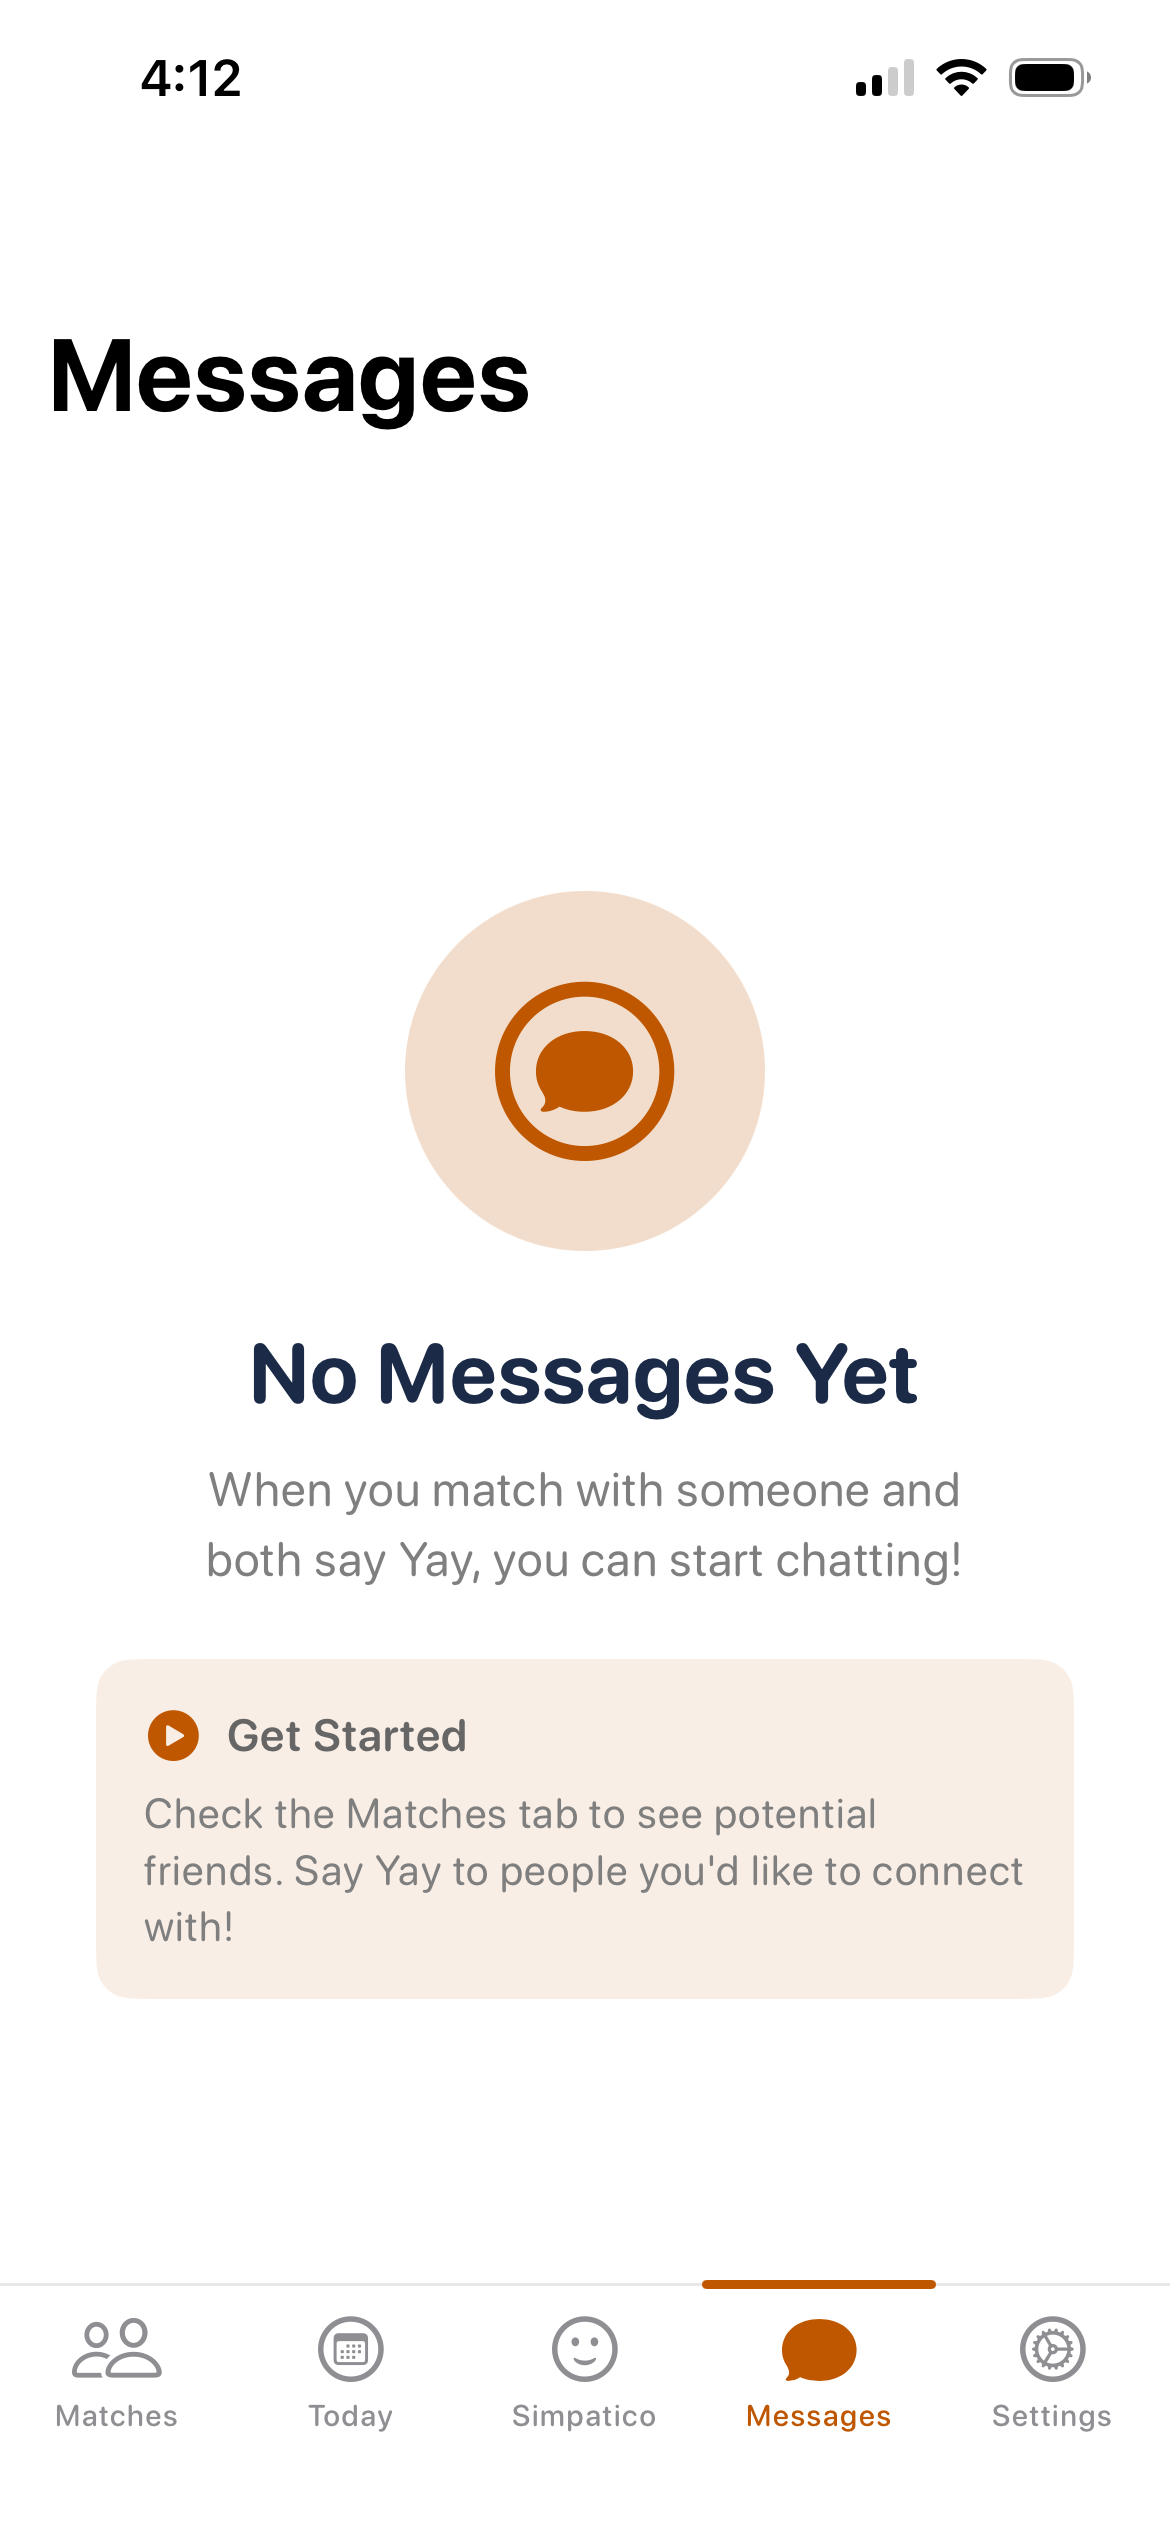
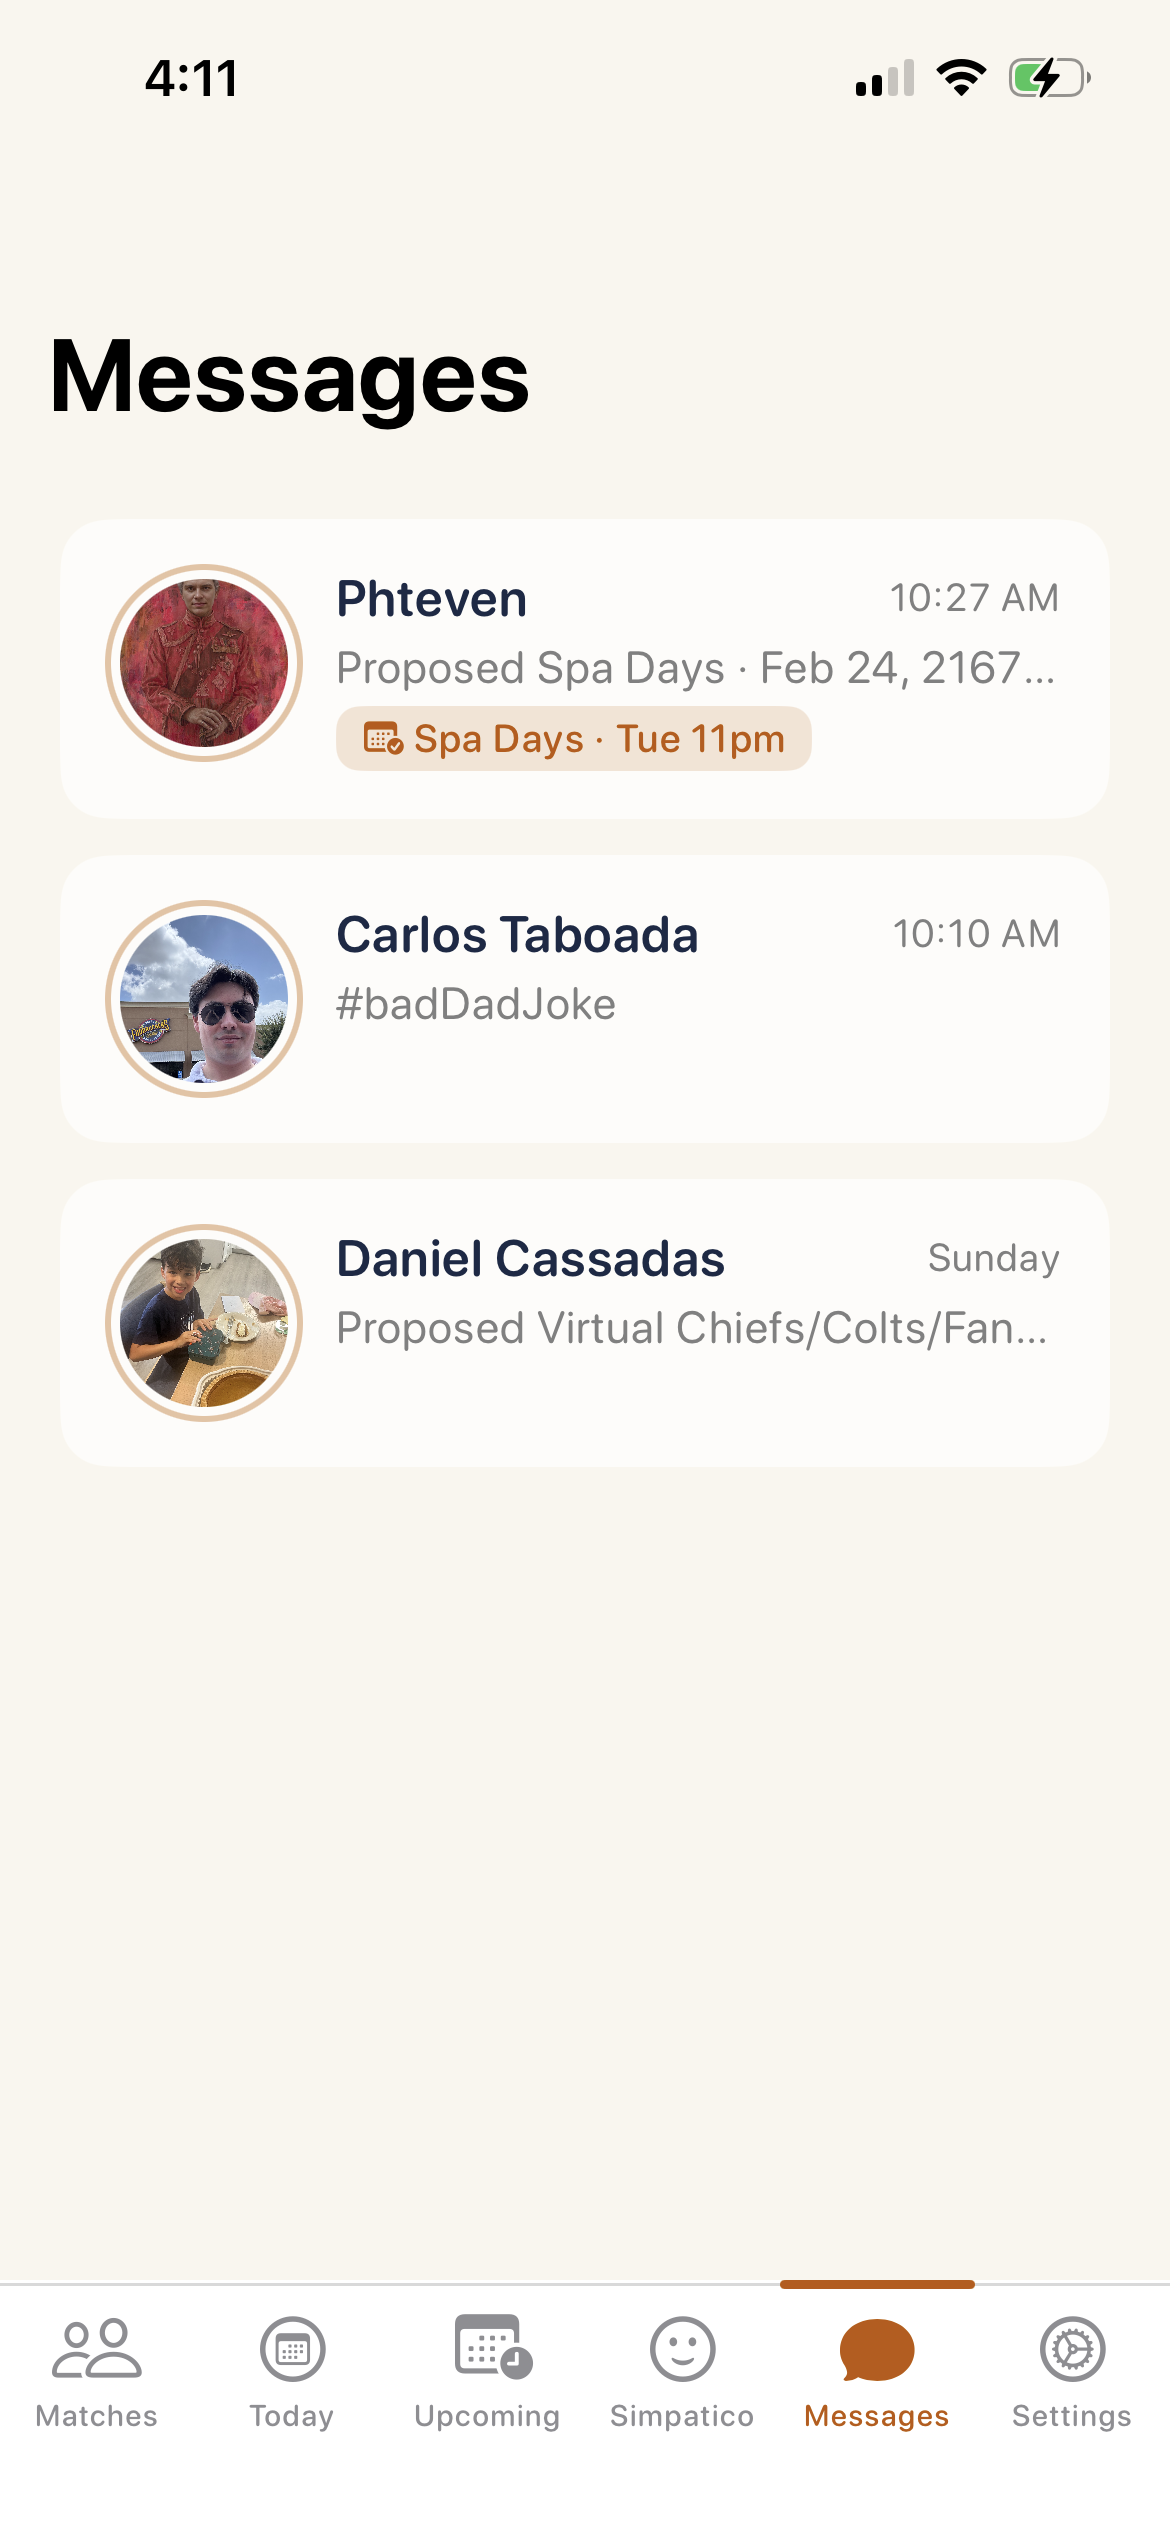
Sync from private

diff --git a/README.md b/README.md
@@ -31,33 +31,37 @@ The loneliness epidemic is deeply entrenched in America now, and it hits younger
 generations hardest. The cause, by and large, is simple: **not enough
 face-to-face interaction.** Daily, weekly, monthly.
 
-So everything in this app is built to produce one thing — two people, in the
+So everything in this app is built to produce one thing — people, in the
 same place, at the same time, doing something together.
 
 ---
 
 ## A look at it
 
-| Matches | Today | Simpatico |
-|:---:|:---:|:---:|
-| <img src="docs/screenshots/matches.png" width="230"> | <img src="docs/screenshots/today.png" width="230"> | <img src="docs/screenshots/simpatico.png" width="230"> |
-| *Only people who share an interest and a free slot* | *What's happening in the next 24 hours* | *18 questions, then a compatibility score* |
+| Matches | Today | Upcoming |
+|---|---|---|
+| ![](docs/screenshots/matches.png) | ![](docs/screenshots/today.png) | ![](docs/screenshots/upcoming.png) |
+| *Only people who share an interest and a free slot* | *What's happening in the next 24 hours* | *Plans for any future day, with a few friends* |
 
-| Messages | Settings |
-|:---:|:---:|
-| <img src="docs/screenshots/messages.png" width="230"> | <img src="docs/screenshots/settings.png" width="230"> |
-| *Every connection, nudged toward a real plan* | *Three photos, three interests, three time slots* |
+| Simpatico | Messages | Settings |
+|---|---|---|
+| ![](docs/screenshots/simpatico.png) | ![](docs/screenshots/messages.png) | ![](docs/screenshots/settings.png) |
+| *Answer what matters to you, see who matches* | *Every connection, nudged toward a real plan* | *Three photos, three interests, three time slots* |
 
 ---
 
 ## What it does
 
-Five tabs. That's the whole app.
+Six tabs. That's the whole app.
 
 ### 🤝 Matches
 
 You'll only see people who share **at least one interest** and **at least one
 free time slot** with you. No endless scroll of strangers.
+
+Interests match by category, too. If you like hiking and they like rock
+climbing, you'll both show up as an **Outdoor & Nature** match — labeled as a
+category match, so you know why you're seeing each other.
 
 - **Pending** — mutual "Yay" required. Both of you, or nothing.
 - **Connected** — one tap to make an IRL Plan or open a conversation.
@@ -71,25 +75,37 @@ served, one-on-one. Once claimed, it moves into Messages.
 
 This is the "I'm getting tacos at 2, who's in" tab.
 
-### 💬 Messages
+### 🗓 Upcoming
 
-Every conversation from Matches and Today lands here.
+Plans for any future date — not just today.
 
-- Text back and forth, with a gentle nudge toward making an actual plan
-- Proposed plans appear as an inline invitation in the thread
-- Confirmed plans pin to the top of the conversation
-- **Afterward, both people get a show-up poll** — thumbs up if the other person
-  came, thumbs down if they didn't. That feeds a **Reliability** score, so
-  flaking has a cost and showing up is worth something.
+Pick a day, describe the plan, and check off the matches you want to invite.
+One person or a few. This is the "trivia next Thursday, who wants in" tab.
 
 ### 🧭 Simpatico
 
 No friendship runs on shared activities alone. There has to be some simpatico.
 
-An 18-question self-assessment about what actually matters to you in a
-friendship. Once two connected people both finish it, a compatibility score
-appears next to their name in Messages. Question format is styled after the old
-OkCupid questionnaire, which was genuinely good at this.
+A set of concrete questions about what actually matters to you in a friendship.
+For each one you give **your answer**, the **answers you'd accept** from a
+friend, and **how much it matters** to you. Skip anything you don't care about.
+Compatibility is scored both ways, so it reflects what each of you wants — not
+just one side.
+
+The format is styled after the old OkCupid questionnaire, which was genuinely
+good at this.
+
+### 💬 Messages
+
+Every conversation from Matches, Today, and Upcoming lands here.
+
+- Text back and forth, with a gentle nudge toward making an actual plan
+- Proposed plans appear as an inline invitation in the thread
+- Confirmed plans pin to the top of the conversation, with one-tap
+  **Add to Calendar** (Apple, Google, or Outlook) and directions to the spot
+- **Afterward, both people get a show-up poll** — thumbs up if the other person
+  came, thumbs down if they didn't. That feeds a **Reliability** score, so
+  flaking has a cost and showing up is worth something.
 
 ### ⚙ Settings
 
@@ -102,8 +118,11 @@ OkCupid questionnaire, which was genuinely good at this.
 
 ## Status
 
-**Alpha.** First real (non-developer) users came on board September 20, 2026.
-Not on the App Store. Expect rough edges — that's what the Issues tab is for.
+**Beta.** First real (non-developer) users came on board September 20, 2026.
+A public TestFlight beta opened in late September 2026:
+**[Join the beta](https://testflight.apple.com/join/sXKkQtFp)**
+
+Not on the App Store yet. Expect rough edges — that's what the Issues tab is for.
 
 Signup is currently geofenced to **within 50 miles of Austin, TX**. If you fork
 this for your own city, that's the first thing you'll change (see Setup, step 7).
@@ -119,6 +138,7 @@ this for your own city, that's the first thing you'll change (see Setup, step 7)
 | Database | Cloud Firestore |
 | Backend | Firebase Cloud Functions |
 | Calendar | Apple EventKit, Google Calendar API, Microsoft Graph API |
+| Places & maps | Apple MapKit |
 | Dependencies | Swift Package Manager (GoogleSignIn-iOS, MSAL, Firebase SDK) |
 
 ---
@@ -136,13 +156,16 @@ configuration rather than code. Work through it in order.
 - An **Apple Developer account** — the free tier works, but apps installed with
   it expire after 7 days and need the phone plugged back in. The paid tier
   ($99/yr) is worth it the moment you have testers you won't see every week.
-- A **physical iPhone**. The Simulator can't do location, and location is load-bearing here.
+- A **physical iPhone**. The Simulator can't do location, and location is
+  load-bearing here.
 
-### 1. Clone it
+### 1. Fork and clone it
+
+Fork this repo on GitHub, then:
 
 ```bash
-git clone https://github.com/YOUR-USERNAME/ATX-Friends.git
-cd ATX-Friends
+git clone https://github.com/YOUR-USERNAME/ATXFriends.git
+cd ATXFriends
 ```
 
 ### 2. Make your own Firebase project
@@ -155,8 +178,8 @@ create a project. Then, inside it:
 - Apple
 - Google
 
-**Firestore Database** → Create database → start in **production mode**
-(the security rules in this repo will replace the defaults in step 5).
+**Firestore Database** → Create database → start in **production mode** (the
+security rules in this repo will replace the defaults in step 5).
 
 **Upgrade to the Blaze plan.** Cloud Functions requires it. It's
 pay-as-you-go, and a small app typically stays inside the free monthly
@@ -167,8 +190,8 @@ if you want the backend to work.
 
 In your Firebase project → Project Settings → Your apps → **Add app → iOS**.
 
-Use your own bundle identifier — something like `com.yourname.YourAppName`. Do
-**not** reuse mine.
+Use your own bundle identifier — something like `com.yourname.YourAppName`.
+Do **not** reuse mine.
 
 Download the `GoogleService-Info.plist` it gives you and drop it into the Xcode
 project (same folder as `Info.plist`). Make sure "Copy items if needed" is
@@ -211,11 +234,11 @@ Settings → General → VPN & Device Management.
 **This is the important one if you're forking.**
 
 Signup is gated to a 50-mile radius around Austin. Search the codebase for the
-Austin coordinates (30.2672, -97.7431) and replace them with your city's. Change
-the radius too if your metro is a different shape.
+Austin coordinates (`30.2672, -97.7431`) and replace them with your city's.
+Change the radius too if your metro is a different shape.
 
 While you're in there, change the app's name and display strings. Please don't
-ship another "ATX Friends" — see [ETHOS.md](./ETHOS.md) and the note on the name
+ship another "ATX Friends" — see [ETHOS.md](ETHOS.md) and the note on the name
 below.
 
 ### 8. Calendar integrations (optional)
@@ -224,6 +247,7 @@ The app can write confirmed plans to a user's calendar. Apple Calendar works out
 of the box via EventKit. The other two need accounts:
 
 **Google Calendar**
+
 1. [Google Cloud Console](https://console.cloud.google.com) → the project Firebase created for you
 2. APIs & Services → Library → enable **Google Calendar API**
 3. OAuth consent screen → Data Access → add the `calendar.events` scope
@@ -233,6 +257,7 @@ You don't need Google's verification review until you go live beyond your test
 list. Plan for that review to take a while when you get there.
 
 **Microsoft / Outlook Calendar**
+
 1. [Azure Portal](https://portal.azure.com) → App registrations → New registration
 2. Supported account types: organizational **and** personal Microsoft accounts
 3. Add the `Calendars.ReadWrite` delegated Microsoft Graph permission
@@ -253,25 +278,32 @@ firebase emulators:exec --only firestore,functions "npm test"
 ## Project structure
 
 ```
-ATX-Friends/
-├── ATX Friends.xcodeproj
-├── ATX Friends/              # SwiftUI app
+ATXFriends/
+├── ATX Friends.xcodeproj     # Open this in Xcode
+├── *.swift                   # Most of the SwiftUI app lives at the top level
+├── ATX Friends/              # App assets and config (Info.plist, etc.)
+├── Avenue3/                  # See note below
+├── Avenue3Tests/             # iOS unit tests
 ├── functions/                # Firebase Cloud Functions
-├── firestore.rules           # Firestore security rules
-├── firestore.indexes.json
+├── firestore-tests/          # Emulator tests for security rules + functions
+├── docs/                     # Screenshots and docs
 ├── README.md
 ├── LICENSE
 ├── COPYING.EXCEPTION
 └── ETHOS.md
 ```
 
+**About "Avenue3":** that's this project's old codename. You'll still see it in
+a few folder and target names. It's the same app — renaming Xcode targets is
+more trouble than it's worth, so the old name stuck around.
+
 ---
 
 ## Contributing
 
-**Start here:** [open issues](../../issues). Anything tagged
-[`good first issue`](../../labels/good%20first%20issue) is a reasonable place
-to jump in cold.
+**Start here:** [open issues](https://github.com/JorgeAntonio512/ATXFriends/issues).
+Anything tagged [`good first issue`](https://github.com/JorgeAntonio512/ATXFriends/labels/good%20first%20issue)
+is a reasonable place to jump in cold.
 
 Bug reports are just as welcome as code. If something broke, tell me what you
 did, what you expected, and what happened instead — that's enough.
@@ -280,7 +312,7 @@ did, what you expected, and what happened instead — that's enough.
 
 1. By submitting a contribution, you agree it's licensed under AGPL-3.0 and you
    grant the same additional permission described in
-   [COPYING.EXCEPTION](./COPYING.EXCEPTION).
+   [COPYING.EXCEPTION](COPYING.EXCEPTION).
 
 2. Please don't put trust-and-safety heuristics or anti-abuse thresholds in a
    public pull request — email me instead. Publishing the exact rules that catch
@@ -290,7 +322,7 @@ did, what you expected, and what happened instead — that's enough.
 
 ## Contact
 
-- **Bugs, features, code** → [open an issue](../../issues)
+- **Bugs, features, code** → [open an issue](https://github.com/JorgeAntonio512/ATXFriends/issues)
 - **Anything else** → gap512@protonmail.com ; (512) 655-3940
 
 I'm a solo developer with a day job, so I'm not always fast. I do read
@@ -301,14 +333,15 @@ everything.
 ## License
 
 ATX Friends is licensed under the **GNU Affero General Public License v3.0**
-([full text](./LICENSE)), with one additional permission for app store
-distribution ([COPYING.EXCEPTION](./COPYING.EXCEPTION)).
+([full text](LICENSE)), with one additional permission for app store
+distribution ([COPYING.EXCEPTION](COPYING.EXCEPTION)).
 
 In plain English:
 
 - **You can** use this code, change it, and launch your own version in your own city.
 - **You can** ship it on the App Store and Google Play. The exception exists specifically so you can.
-- **You must** publish your source code — including if you only ever run it as a hosted service. That's the "Affero" part, and it's deliberate.
+- **You must** publish your source code — including if you only ever run it as
+  a hosted service. That's the "Affero" part, and it's deliberate.
 
 If you want to use it under different terms, ask me. I'm reachable and I'm not
 difficult.
@@ -336,7 +369,7 @@ every feature should have to pass.
 
 **None of it is binding. All of it is the reason this repo exists.**
 
-→ **[Read ETHOS.md](./ETHOS.md)**
+→ **[Read ETHOS.md](ETHOS.md)**
 
 It's a two-minute read. If you're going to take this code and build something
 with it, I'd count it a kindness if you took the two minutes.
